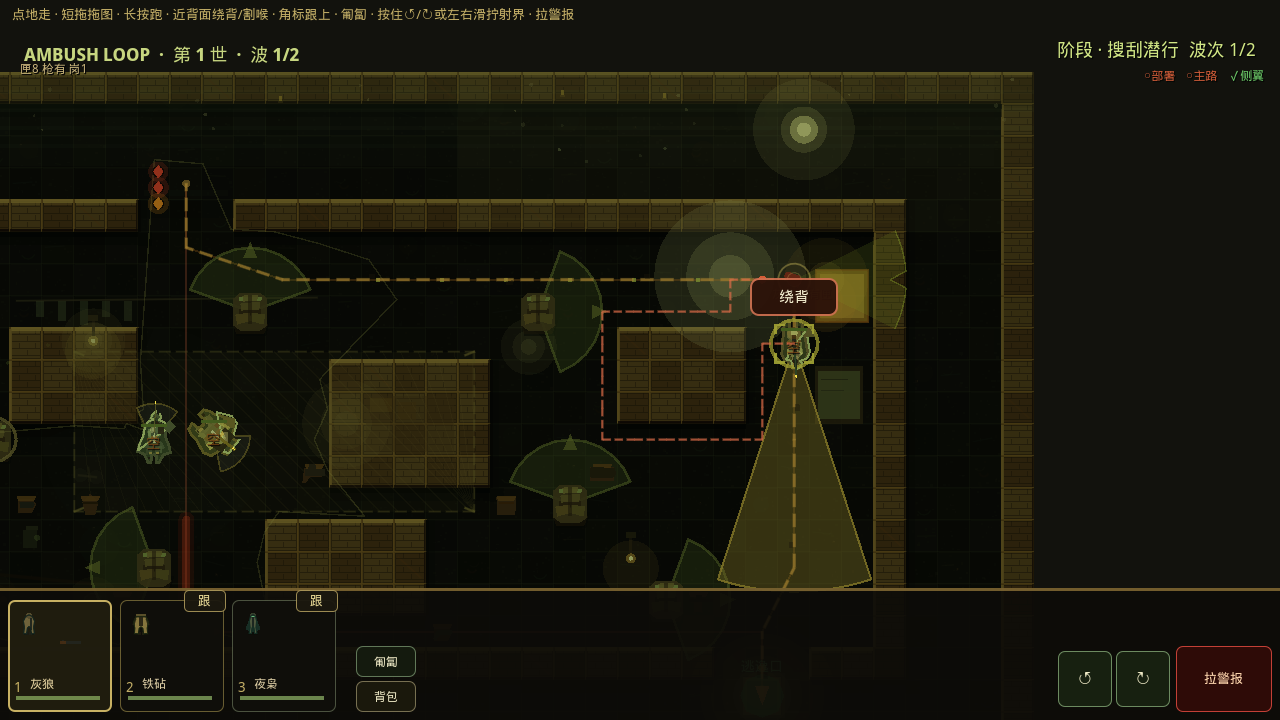
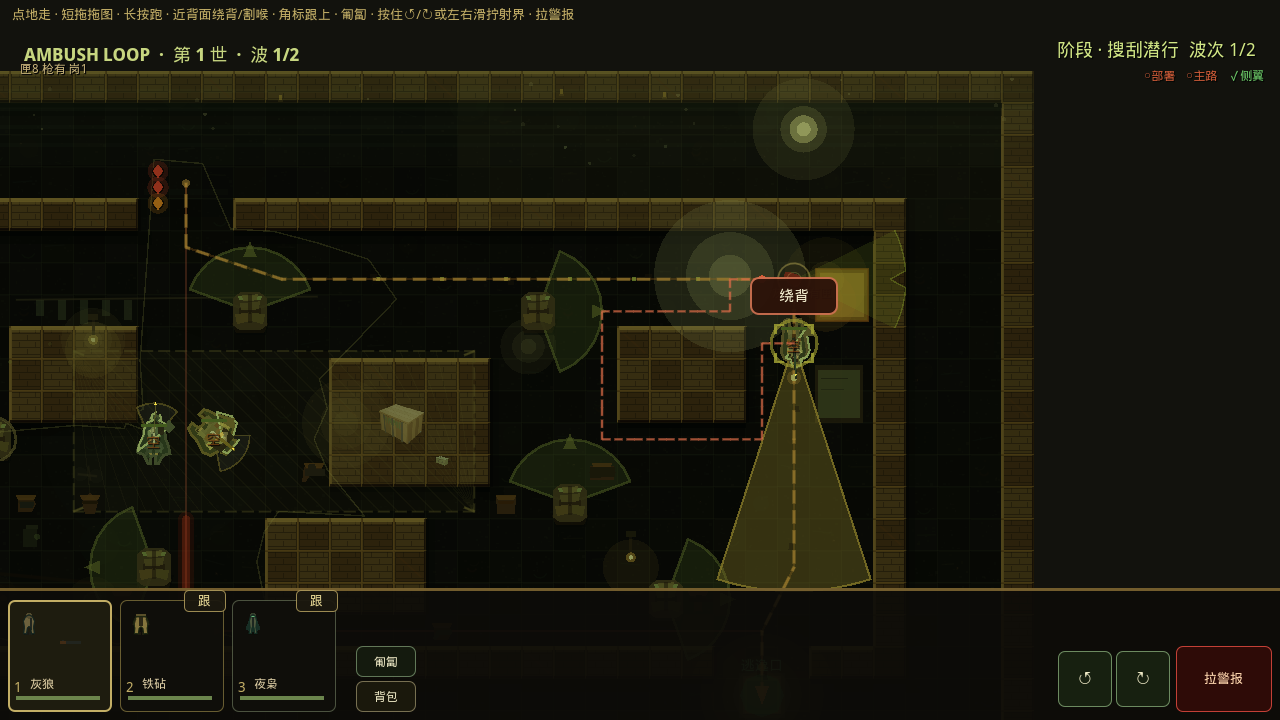
feat(look): ammo can sprite beside the courtyard crate
Second Blender prop in the playable yard. Olive 30CAL can sits on the
south lip of island (19,10) next to the pine crate.

Review: eval_touch_ux/01_scout_touch_simple.png — crate + smaller olive
can on the hatched court.

diff --git a/ambush_loop/docs/CHANGELOG.md b/ambush_loop/docs/CHANGELOG.md
@@ -18,7 +18,7 @@ Same RAID as 0.5.41. Dump-found yard scrape: 跟 chip was 36×18; 开匣 sat lef
 
 ## Look — Blender yard crate in the playable courtyard
 
-`blender-headless` crate iso bake is now a sprite on the courtyard island (19,10). GLB in ArtSource stays the source of truth. Review: `eval_touch_ux/01_scout_touch_simple.png` — pine crate with iron straps on the hatched court, not three brown rects.
+`blender-headless` crate iso bake is now a sprite on the courtyard island (19,10). GLB in ArtSource stays the source of truth. Review: `eval_touch_ux/01_scout_touch_simple.png` — pine crate with iron straps on the hatched court, not three brown rects. A second Look prop (olive 30CAL ammo can) sits on the same island.
 
 ## 0.5.41 — Engine: west trio file tape (span 6 kept)
 
